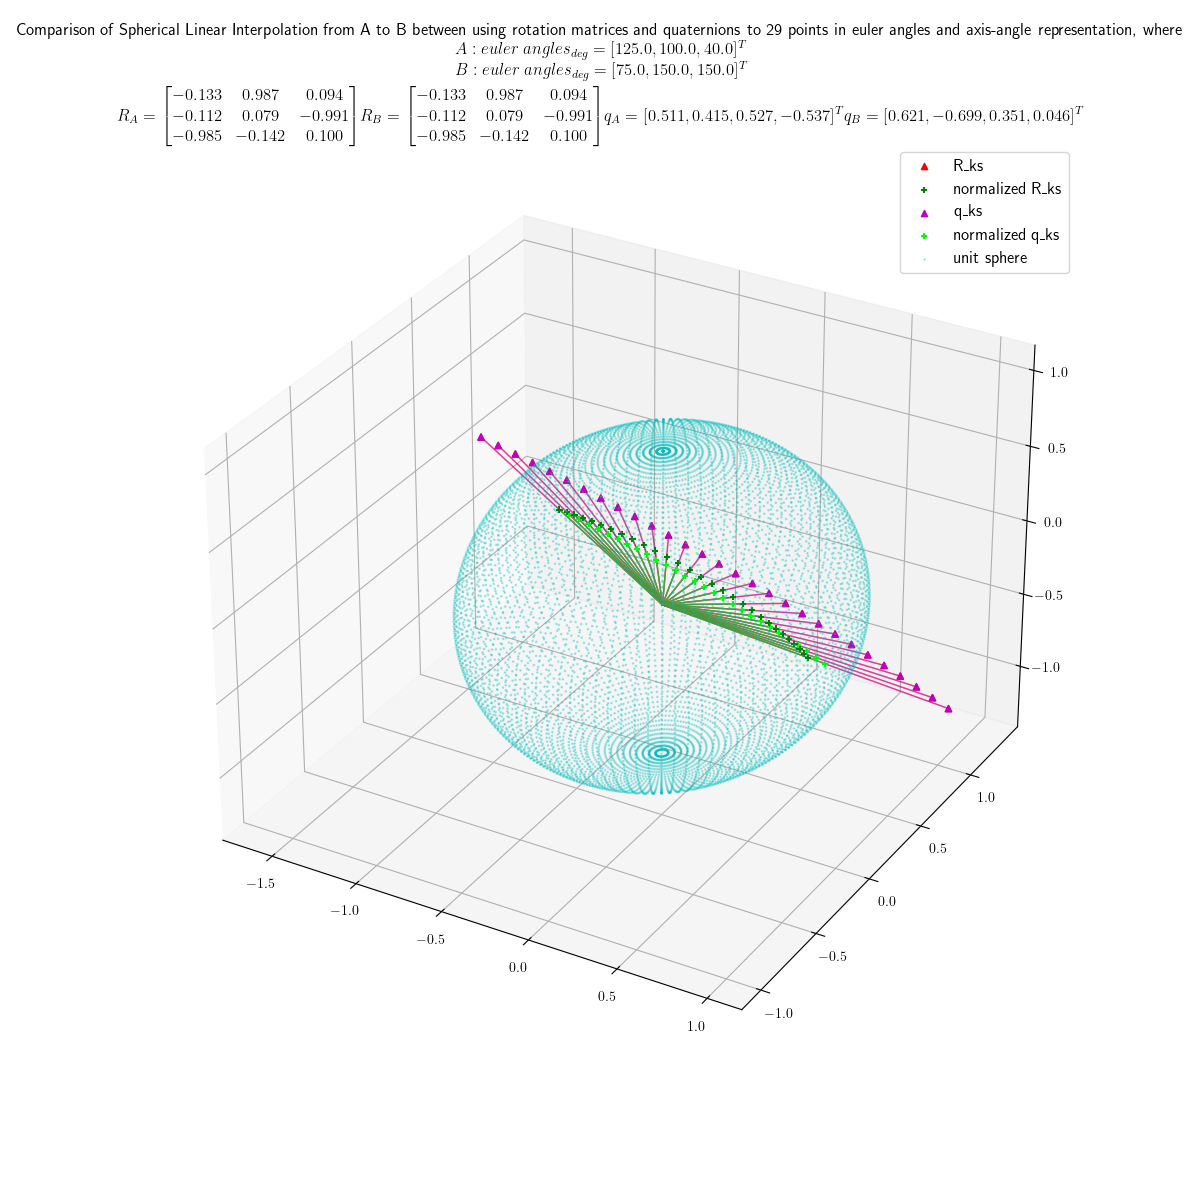
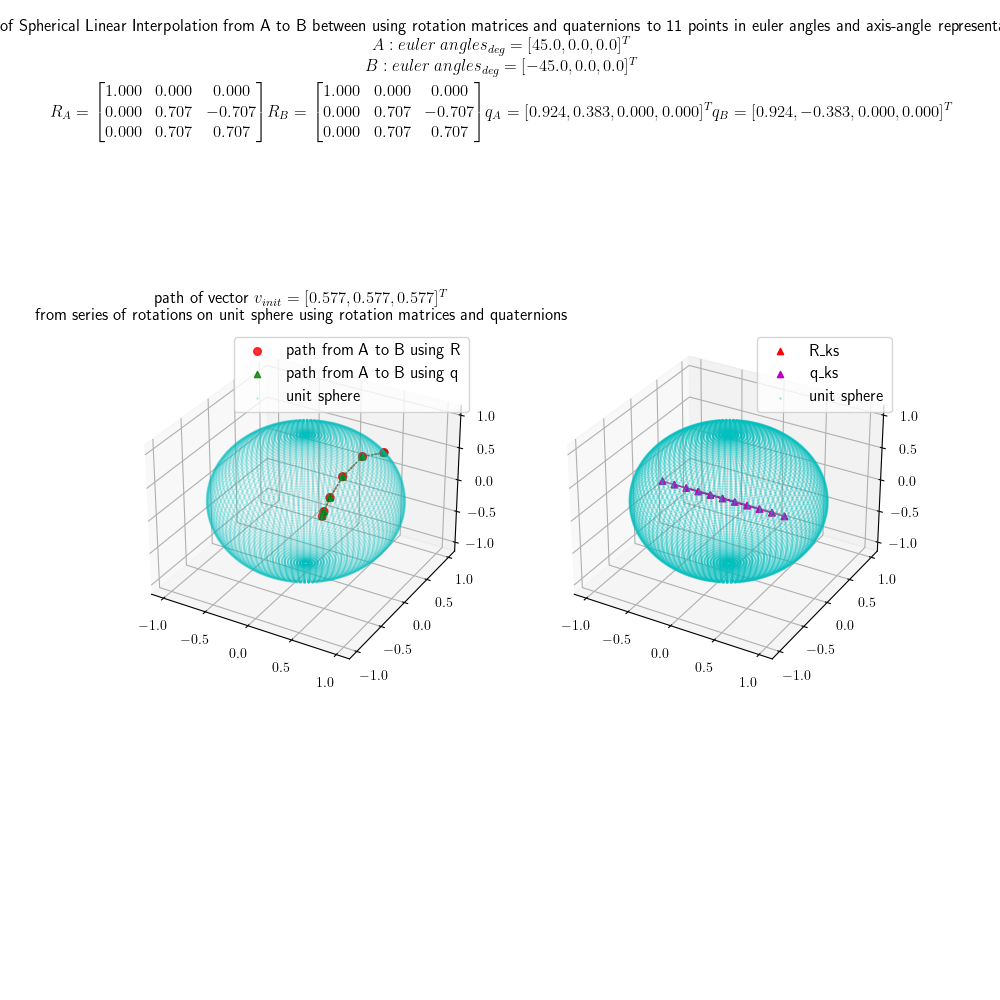
Finished producing analysis plots for each interesting case with necessary annotations and explanations. I will go ahead and study the jacobians of rotations now

diff --git a/scripts/visualizer.py b/scripts/visualizer.py
@@ -1,3 +1,4 @@
+from copy import deepcopy
 from slerp import *
 from conversion import *
 import matplotlib as mpl
@@ -13,7 +14,17 @@ def draw_sphere(n_pts: int = 50):
             zs.append(np.cos(np.pi*i/n_pts))
     return xs, ys, zs
 
-def visualize(init_conditions: tuple, Rs_interp: list, qs_interp: list, draw_3d: bool, idx: int):
+
+def deriv_list(l: list):
+    res = []
+    x_prev = None
+    for x in l:
+        if x_prev != None:
+            res.append(x-x_prev)
+        x_prev = x
+    return res
+
+def visualize(init_conditions: tuple, Rs_interp: list, qs_interp: list, draw_3d: bool, fig_idx: int):
     ### MPL Formatting
     mpl.rcParams['text.usetex'] = True
     mpl.rcParams['text.latex.preamble'] = r'\usepackage{{amsmath}}'
@@ -27,7 +38,10 @@ def visualize(init_conditions: tuple, Rs_interp: list, qs_interp: list, draw_3d:
     R2 = init_conditions[3]
     q1 = init_conditions[4]
     q2 = init_conditions[5]
-    f, ax = plt.subplots(1,4,figsize=(20,6))
+    v_init = init_conditions[6]
+    path_title = r'path of vector $v_{init} =  [%.3f, %.3f, %.3f]^T$'%(v_init[0], v_init[1], v_init[2])+'\nfrom series of rotations on unit sphere using rotation matrices and quaternions'
+
+    f, axs = plt.subplots(2,4,figsize=(20,12))
     plt.subplots_adjust(left=0.03,bottom=0.15,right=0.97,top=0.7,wspace=0.5,hspace=0.4)
     suptitle = f'Comparison of Spherical Linear Interpolation from A to B between using rotation matrices and quaternions to {len(Rs_interp)} points in euler angles and axis-angle representation, '+'where\n' 
     suptitle += r'$A : euler\ angles_{deg} = [%.1f, %.1f, %.1f]^T$'%(euler_angles_deg1[0], euler_angles_deg1[1], euler_angles_deg1[2])+'\n'
@@ -39,7 +53,11 @@ def visualize(init_conditions: tuple, Rs_interp: list, qs_interp: list, draw_3d:
     f.suptitle(suptitle)
 
     ### Data Extraction
-    idxs, idxs_metrics = [*range(len(Rs_interp))], [*range(len(Rs_interp)-1)]
+    idxs, jdxs = [*range(len(Rs_interp))], [*range(len(Rs_interp)-1)]
+    idxs_paths = [*range(len(Rs_interp))]
+    R_path, q_path = deepcopy(v_init), deepcopy(v_init)#np.array([1,0,0])
+    R_paths_x, R_paths_y, R_paths_z = [],[],[]#R_path[0]], [R_path[1]], [R_path[2]]
+    q_paths_x, q_paths_y, q_paths_z = [],[],[]#[q_path[0]], [q_path[1]], [q_path[2]]
     R_rolls, R_pitchs, R_yaws = [], [], []
     q_rolls, q_pitchs, q_yaws = [], [], []
     R_thetas, R_ks_x, R_ks_y, R_ks_z = [], [], [], []
@@ -49,11 +67,16 @@ def visualize(init_conditions: tuple, Rs_interp: list, qs_interp: list, draw_3d:
 
     #geodesic_metrics, hyperbolic_metrics, frobenius_metrics = compute_metrics(Rs_interp[0], Rs_interp)
     for R_interp in Rs_interp:
+        R_paths_x.append(R_path[0])
+        R_paths_y.append(R_path[1])
+        R_paths_z.append(R_path[2])
+        R_path = R_interp @ R_path
+
         euler_angles_rad = euler_angles_rad_from_R(R_interp)
         R_rolls.append(rad2deg(euler_angles_rad[0]))
         R_pitchs.append(rad2deg(euler_angles_rad[1]))
         R_yaws.append(rad2deg(euler_angles_rad[2]))
-        
+
         k = log_map_from_SO3_to_so3(R_interp)
         theta = np.linalg.norm(k)
         R_thetas.append(rad2deg(theta))
@@ -66,6 +89,12 @@ def visualize(init_conditions: tuple, Rs_interp: list, qs_interp: list, draw_3d:
         R_ks_norm_y.append(k[1]/k_norm)
         R_ks_norm_z.append(k[2]/k_norm)
     for q_interp in qs_interp:
+        q_interp_R = R_from_q(q_interp)
+        q_paths_x.append(q_path[0])
+        q_paths_y.append(q_path[1])
+        q_paths_z.append(q_path[2])
+        q_path = q_interp_R @ q_path
+
         euler_angles_rad = euler_angles_rad_from_q(q_interp)
         q_rolls.append(rad2deg(euler_angles_rad[0]))
         q_pitchs.append(rad2deg(euler_angles_rad[1]))
@@ -82,27 +111,65 @@ def visualize(init_conditions: tuple, Rs_interp: list, qs_interp: list, draw_3d:
         q_ks_norm_y.append(k[1]/k_norm)
         q_ks_norm_z.append(k[2]/k_norm)
 
-    ax[0].scatter(idxs, R_rolls, c='r', marker='o', s=20, alpha=0.5)
-    ax[0].scatter(idxs, R_pitchs, c='g', marker='o', s=20, alpha=0.5)
-    ax[0].scatter(idxs, R_yaws, c='b', marker='o', s=20, alpha=0.5)
-    ax[0].scatter(idxs, q_rolls, c='m', marker='^', s=20, alpha=0.5)
-    ax[0].scatter(idxs, q_pitchs, c='lime', marker='^', s=20, alpha=0.5)
-    ax[0].scatter(idxs, q_yaws, c='c', marker='^', s=20, alpha=0.5)
-    ax[0].legend(('R_roll','R_pitch','R_yaw','q_roll','q_pitch','q_yaw'))
-    ax[0].set_title('euler angles in degrees')
+    axs[0,0].scatter(idxs, R_rolls, c='r', marker='o', s=30, alpha=0.5)
+    axs[0,0].scatter(idxs, R_pitchs, c='g', marker='o', s=30, alpha=0.5)
+    axs[0,0].scatter(idxs, R_yaws, c='b', marker='o', s=30, alpha=0.5)
+    axs[0,0].scatter(idxs, q_rolls, c='m', marker='^', s=20, alpha=0.5)
+    axs[0,0].scatter(idxs, q_pitchs, c='lime', marker='^', s=20, alpha=0.5)
+    axs[0,0].scatter(idxs, q_yaws, c='c', marker='^', s=20, alpha=0.5)
+    axs[0,0].legend(('R_roll','R_pitch','R_yaw','q_roll','q_pitch','q_yaw'))
+    axs[0,0].set_title('euler angles in degrees')
 
-    ax[1].scatter(idxs, R_thetas, c='r', marker='o', s=20, alpha=0.5)
-    ax[1].scatter(idxs, q_thetas, c='m', marker='^', s=20, alpha=0.5)
-    ax[1].legend(('R_theta', 'q_theta'))
-    ax[1].set_title('axis angle in degrees')
+    axs[0,1].scatter(jdxs, deriv_list(R_rolls), c='r', marker='o', s=30, alpha=0.5)
+    axs[0,1].scatter(jdxs, deriv_list(R_pitchs), c='g', marker='o', s=30, alpha=0.5)
+    axs[0,1].scatter(jdxs, deriv_list(R_yaws), c='b', marker='o', s=30, alpha=0.5)
+    axs[0,1].scatter(jdxs, deriv_list(q_rolls), c='m', marker='^', s=20, alpha=0.5)
+    axs[0,1].scatter(jdxs, deriv_list(q_pitchs), c='lime', marker='^', s=20, alpha=0.5)
+    axs[0,1].scatter(jdxs, deriv_list(q_yaws), c='c', marker='^', s=20, alpha=0.5)
+    axs[0,1].legend(('d[0,R_roll]','d[0,R_pitch]','d[0,R_yaw]','d[0,q_roll]','d[0,q_pitch]','d[0,q_yaw]'))
+    axs[0,1].set_title('euler angles in degrees')
+
+
+    axs[0,2].scatter(idxs, R_thetas, c='r', marker='o', s=30, alpha=0.5)
+    axs[0,2].scatter(idxs, q_thetas, c='m', marker='^', s=20, alpha=0.5)
+    axs[0,2].legend(('R_theta', 'q_theta'))
+    axs[0,2].set_title('axis angle in degrees')
     
-    ax[2].scatter(idxs, R_ks_norm, c='orange', marker='o', s=20, alpha=0.5)
-    ax[2].scatter(idxs, R_ks_x, c='r', marker='o', s=20, alpha=0.5)
-    ax[2].scatter(idxs, R_ks_y, c='g', marker='o', s=20, alpha=0.5)
-    ax[2].scatter(idxs, R_ks_z, c='b', marker='o', s=20, alpha=0.5)
-    ax[2].legend(('norm of axis vector','R_k_x','R_k_y','R_k_z'))
-    ax[2].set_title('axis vector')
-    plt.savefig(f'R_q_slerp_comparison_{idx}.png')
+    axs[0,3].scatter(idxs, R_ks_norm, c='orange', marker='o', s=30, alpha=0.5)
+    axs[0,3].scatter(idxs, R_ks_x, c='r', marker='o', s=30, alpha=0.5)
+    axs[0,3].scatter(idxs, R_ks_y, c='g', marker='o', s=30, alpha=0.5)
+    axs[0,3].scatter(idxs, R_ks_z, c='b', marker='o', s=30, alpha=0.5)
+    axs[0,3].legend(('norm of axis vector','R_k_x','R_k_y','R_k_z'))
+    axs[0,3].set_title('axis vector')
+    
+    for ax in axs[1, :]:
+        ax.remove()
+    gs = axs[1, 2].get_gridspec()
+    ax_b_0 = f.add_subplot(gs[1, :2])
+    ax_b_0.scatter(idxs_paths, R_paths_x, c='r', marker='o', s=30, alpha=0.5)
+    ax_b_0.scatter(idxs_paths, R_paths_y, c='b', marker='o', s=30, alpha=0.5)
+    ax_b_0.scatter(idxs_paths, R_paths_z, c='g', marker='o', s=30, alpha=0.5)
+    ax_b_0.plot(idxs_paths, R_paths_x, c='r', alpha=0.5)
+    ax_b_0.plot(idxs_paths, R_paths_y, c='b', alpha=0.5)
+    ax_b_0.plot(idxs_paths, R_paths_z, c='g', alpha=0.5)
+    ax_b_0.legend(('R_path_x','R_path_y','R_path_z','q_path_x','q_path_y','q_path_z'))
+    ax_b_0.set_title(path_title)#r'path of vector $v_{init} =  [1,0,0]^T$ from series of rotations on unit sphere using rotation matrices')
+    
+    ax_b_1 = f.add_subplot(gs[1, 2:])
+    ax_b_1.scatter(idxs_paths, q_paths_x, c='m', marker='^', s=20, alpha=0.5)
+    ax_b_1.scatter(idxs_paths, q_paths_y, c='lime', marker='^', s=20, alpha=0.5)
+    ax_b_1.scatter(idxs_paths, q_paths_z, c='c', marker='^', s=20, alpha=0.5)
+    ax_b_1.plot(idxs_paths, q_paths_x, c='r', alpha=0.5)
+    ax_b_1.plot(idxs_paths, q_paths_y, c='b', alpha=0.5)
+    ax_b_1.plot(idxs_paths, q_paths_z, c='g', alpha=0.5)
+
+    ax_b_1.legend(('q_path_x','q_path_y','q_path_z'))
+    ax_b_1.set_title(path_title)#r'path of vector $v_{init} =  [1,0,0]^T$ from series of rotations on unit sphere using quaternions')
+
+
+    plt.savefig(f'R_q_slerp_comparison_{fig_idx}.png')
+
+
 
     '''
     ax[2].plot(idxs_metrics, geodesic_metrics, c='r')
@@ -121,71 +188,71 @@ def visualize(init_conditions: tuple, Rs_interp: list, qs_interp: list, draw_3d:
     '''
     if draw_3d:
         sphere_x, sphere_y, sphere_z = draw_sphere(100)
-        f3d = plt.figure(figsize=(12,12))
+        #f3d, ax3ds = plt.subplots(1,2,figsize=(20,12))
+        f3d = plt.figure(figsize=(10,10))
         f3d.suptitle(suptitle)
-        #f3d.suptitle('Axis unit vectors of SLERP from R1 to R2 shown alongside the unit sphere')
-        ax3d = plt.axes(projection='3d')
+        ax3d_0 = f3d.add_subplot(1, 2, 1, projection='3d')
+        ax3d_1 = f3d.add_subplot(1, 2, 2, projection='3d')
         plt.subplots_adjust()
-        ax3d.scatter3D(R_ks_x, R_ks_y, R_ks_z, marker='^', s=20, c='r', alpha=1.0)
-        ax3d.scatter3D(R_ks_norm_x,R_ks_norm_y, R_ks_norm_z, marker='+', s=20, c='g', alpha=1.0)
-        ax3d.scatter3D(q_ks_x, q_ks_y, q_ks_z, marker='^', s=20, c='m', alpha=1.0)
-        ax3d.scatter3D(q_ks_norm_x,q_ks_norm_y, q_ks_norm_z, marker='+', s=20, c='lime', alpha=1.0)
-        ax3d.scatter3D(sphere_x, sphere_y, sphere_z, marker='.', s=3, c='c', alpha=0.3)
-        ax3d.legend(('R_ks', 'normalized R_ks', 'q_ks', 'normalized q_ks', 'unit sphere'))
-        for (k_x, k_y, k_z, k_norm) in zip(R_ks_x, R_ks_y, R_ks_z, R_ks_norm):
-            ax3d.plot3D([0,k_x],[0,k_y],[0,k_z], c='r', linewidth=1, alpha=0.5)
-            ax3d.plot3D([0,k_x/k_norm],[0,k_y/k_norm],[0,k_z/k_norm], c='g', linewidth=1, alpha=0.5)
-        for (k_x, k_y, k_z, k_norm) in zip(q_ks_x, q_ks_y, q_ks_z, q_ks_norm):
-            ax3d.plot3D([0,k_x],[0,k_y],[0,k_z], c='m', linewidth=1, alpha=0.5)
-            ax3d.plot3D([0,k_x/k_norm],[0,k_y/k_norm],[0,k_z/k_norm], c='lime', linewidth=1, alpha=0.5)
-            
-        plt.savefig(f'R_q_slerp_comparison_3d_{idx}.png')
+       
+        ax3d_0.scatter3D(R_paths_x, R_paths_y, R_paths_z, marker='o', s=30, c='r', alpha=0.8)
+        ax3d_0.scatter3D(q_paths_x, q_paths_y, q_paths_z, marker='^', s=20, c='g', alpha=0.8)
+        ax3d_0.scatter3D(sphere_x, sphere_y, sphere_z, marker='.', s=3, c='c', alpha=0.2)
+        ax3d_0.plot3D(R_paths_x, R_paths_y, R_paths_z, linestyle='-.', linewidth=1, c='r', alpha=0.5)
+        ax3d_0.plot3D(q_paths_x, q_paths_y, q_paths_z, linestyle=':', linewidth=1, c='g', alpha=0.5)
+        ax3d_0.legend(('path from A to B using R', 'path from A to B using q', 'unit sphere'))
+        ax3d_0.set_title(path_title)
 
-def compute_and_visualize(euler_angles_deg1: np.ndarray, euler_angles_deg2: np.ndarray, draw_3d: bool, idx: int):
-    if not isinstance(euler_angles_deg1, np.ndarray) or not isinstance(euler_angles_deg2, np.ndarray):
+        ax3d_1.scatter3D(R_ks_x, R_ks_y, R_ks_z, marker='^', s=20, c='r', alpha=1.0)
+        #ax3d_1.scatter3D(R_ks_norm_x,R_ks_norm_y, R_ks_norm_z, marker='+', s=20, c='g', alpha=1.0)
+        ax3d_1.scatter3D(q_ks_x, q_ks_y, q_ks_z, marker='^', s=20, c='m', alpha=1.0)
+        #ax3d_1.scatter3D(q_ks_norm_x,q_ks_norm_y, q_ks_norm_z, marker='+', s=20, c='lime', alpha=1.0)
+        ax3d_1.scatter3D(sphere_x, sphere_y, sphere_z, marker='.', s=3, c='c', alpha=0.3)
+        #ax3d_1.legend(('R_ks', 'normalized R_ks', 'q_ks', 'normalized q_ks', 'unit sphere'))
+        ax3d_1.legend(('R_ks', 'q_ks', 'unit sphere'))
+        for (k_x, k_y, k_z, k_norm) in zip(R_ks_x, R_ks_y, R_ks_z, R_ks_norm):
+            ax3d_1.plot3D([0,k_x],[0,k_y],[0,k_z], c='r', linewidth=1, alpha=0.5)
+            #ax3d_1.plot3D([0,k_x/k_norm],[0,k_y/k_norm],[0,k_z/k_norm], c='g', linewidth=1, alpha=0.5)
+        for (k_x, k_y, k_z, k_norm) in zip(q_ks_x, q_ks_y, q_ks_z, q_ks_norm):
+            ax3d_1.plot3D([0,k_x],[0,k_y],[0,k_z], c='m', linewidth=1, alpha=0.5)
+            #ax3d_1.plot3D([0,k_x/k_norm],[0,k_y/k_norm],[0,k_z/k_norm], c='lime', linewidth=1, alpha=0.5)
+            
+        plt.savefig(f'R_q_slerp_comparison_3d_{fig_idx}.png')
+
+def compute_and_visualize(euler_angles_deg1: np.ndarray, euler_angles_deg2: np.ndarray, n_interp: int, v_init: np.ndarray, draw_3d: bool, fig_idx: int):
+    if not isinstance(euler_angles_deg1, np.ndarray) or not isinstance(euler_angles_deg2, np.ndarray) or not isinstance(v_init, np.ndarray):
         raise NotNumpyArray
-    if euler_angles_deg1.ndim != 1 or euler_angles_deg2.ndim != 1:
+    if euler_angles_deg1.ndim != 1 or euler_angles_deg2.ndim != 1 or v_init.ndim != 1:
         raise NotOneDimArray
-    if euler_angles_deg1.shape[0] != 3 or euler_angles_deg2.shape[0] != 3:
+    if euler_angles_deg1.shape[0] != 3 or euler_angles_deg2.shape[0] != 3 or v_init.shape[0] != 3:
         raise Not3Vector
+    if not isinstance(n_interp, int) or not isinstance(fig_idx, int):
+        raise NotInt
+
     euler_angles_rad1 = deg2rad(euler_angles_deg1)
     euler_angles_rad2 = deg2rad(euler_angles_deg2)
 
     R1 = R_from_euler_angles_rad(euler_angles_rad1)
     R2 = R_from_euler_angles_rad(euler_angles_rad2)
-    Rs_interp = slerp_R(R1, R2, 30)
+    Rs_interp = slerp_R(R1, R2, n_interp)
     
     q1 = q_from_euler_angles_rad(euler_angles_rad1)
     q2 = q_from_euler_angles_rad(euler_angles_rad2)
-    qs_interp_direct = slerp_q_direct(q1, q2, 30)
-    qs_interp_exp_and_log = slerp_q_exp_and_log(q1, q2, 30) 
+    qs_interp_direct = slerp_q_direct(q1, q2, n_interp)
+    qs_interp_exp_and_log = slerp_q_exp_and_log(q1, q2, n_interp) 
 
-    init_conditions = (euler_angles_deg1, euler_angles_deg2, R1, R2, q1, q2)
-    visualize(init_conditions, Rs_interp, qs_interp_direct, draw_3d, idx)
+    init_conditions = (euler_angles_deg1, euler_angles_deg2, R1, R2, q1, q2, v_init)
+    visualize(init_conditions, Rs_interp, qs_interp_direct, draw_3d, fig_idx)
 
 def main():
     draw_3d = True
-    euler_angles_deg1_s = [np.array([125,100,40]), np.array([125,100,40])]
-    euler_angles_deg2_s = [np.array([75,150,150]), np.array([75,150,250])]
-    for (i, (euler_angles_deg1, euler_angles_deg2)) in enumerate(zip(euler_angles_deg1_s, euler_angles_deg2_s)):
-        compute_and_visualize(euler_angles_deg1, euler_angles_deg2, draw_3d, i)
-
-    '''
-    euler_angles_rad1 = deg2rad(euler_angles_deg1)
-    euler_angles_rad2 = deg2rad(euler_angles_deg2)
-
-    R1 = R_from_euler_angles_rad(euler_angles_rad1)
-    R2 = R_from_euler_angles_rad(euler_angles_rad2)
-    Rs_interp = slerp_R(R1, R2, 30)
-    
-    q1 = q_from_euler_angles_rad(euler_angles_rad1)
-    q2 = q_from_euler_angles_rad(euler_angles_rad2)
-    qs_interp_direct = slerp_q_direct(q1, q2, 30)
-    qs_interp_exp_and_log = slerp_q_exp_and_log(q1, q2, 30) 
-
-    init_conditions = (euler_angles_deg1, euler_angles_deg2, R1, R2, q1, q2)
-    visualize(init_conditions, Rs_interp, qs_interp_direct, draw_3d)
-    ''' 
+    euler_angles_deg1_s = [np.array([45,0,0]), np.array([0,45,0]), np.array([125,100,40]), np.array([125,100,40])]
+    euler_angles_deg2_s = [np.array([-45,0,0]), np.array([0,-45,0]), np.array([75,150,150]), np.array([75,150,250])]
+    n_interps = [12, 30, 50, 50]
+    v_init = np.array([1,1,1])
+    v_init = v_init / np.linalg.norm(v_init)
+    for (i, (euler_angles_deg1, euler_angles_deg2, n_interp)) in enumerate(zip(euler_angles_deg1_s, euler_angles_deg2_s, n_interps)):
+        compute_and_visualize(euler_angles_deg1, euler_angles_deg2, n_interp, v_init, draw_3d, i)
     plt.show()
 
 if __name__=='__main__':

diff --git a/scripts/conversion.py b/scripts/conversion.py
@@ -60,13 +60,25 @@ def q_from_euler_angles_rad(euler_angles_rad: np.ndarray):
 # to euler_angles in rad : [roll, pitch, yaw].T
 def euler_angles_rad_from_q(q: np.ndarray):
     if not isinstance(q, np.ndarray):
-        raise NotNumpyArray
+        raise notnumpyarray
     if q.ndim != 1: 
-        raise NotOneDimArray
+        raise notonedimarray
     if q.shape[0] != 4:
-        raise Not4Vector
+        raise not4vector
     roll = np.arctan2(2*(q[0]*q[1] + q[2]*q[3]), 1-2*(q[1]**2 + q[2]**2))
     pitch = np.arcsin(2*(q[0]*q[2] - q[3]*q[1]))
     yaw = np.arctan2(2*(q[0]*q[3] + q[1]*q[2]), 1-2*(q[2]**2 + q[3]**2))
     return np.array([roll, pitch, yaw])    
+
+def R_from_q(q: np.ndarray):
+    if not isinstance(q, np.ndarray):
+        raise notnumpyarray
+    if q.ndim != 1: 
+        raise notonedimarray
+    if q.shape[0] != 4:
+        raise not4vector
+    return np.array([
+        [1-2*(q[2]**2)-2*(q[3]**2), 2*q[1]*q[2]-2*q[0]*q[3], 2*q[1]*q[3] + 2*q[0]*q[2]],
+        [2*q[1]*q[2]+2*q[0]*q[3], 1-2*(q[1]**2)-2*(q[3]**2), 2*q[2]*q[3]-2*q[0]*q[1]],
+        [2*q[1]*q[3]-2*q[0]*q[2], 2*q[2]*q[3]+2*q[0]*q[1], 1-2*(q[1]**2)-2*(q[2]**2)]])
 
